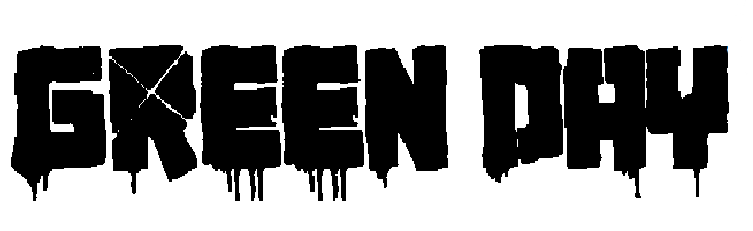
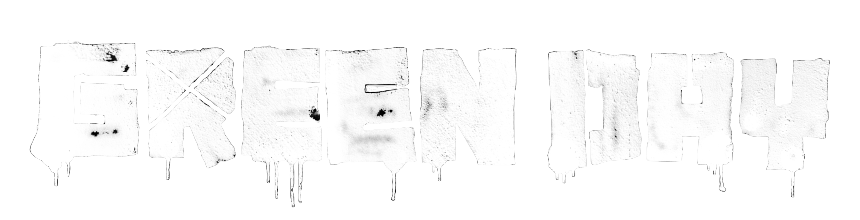
Whatever version I'm on
Working out CSS stuff for the layout and opacity of certain things.

diff --git a/green_day_discography/studio.html b/green_day_discography/studio.html
@@ -19,39 +19,47 @@
         <main>
             <h1>Studio Albums</h1>
             <p>Listed below are all the Studio Albums produced by Green Day.</p>
-            <img src="images/1039_smoothed_out_slappy_hours.jpg">
-            <h2>39/Smooth</h2>
+            <img class="left" src="images/1039_smoothed_out_slappy_hours.jpg">
+            <h2 class="title1">39/Smooth</h2>
             <p>Green Day’s debut album released on April 13th 1990 and sold around 75,000 copies by 1994. The album has 10 tracks and has a total runtime of 31 minutes and 12 seconds. This album is one of 2 albums produced by Green Day under the label Lookout Records.</p>
-            <img src="images/kerplunk!.jpg">
-            <h2>Kerplunk!</h2>
-            <p>Green Day’s second album was released on December 17th 1991. It sold 10,000 copies on the day of its release, and as of January 2017 has sold over 4 million copies. Tre Cool made his debut as Green Day’s drummer on this album after former drummer John Kiffmeyer left the band. The album has 12 tracks and has a total runtime of 33 minutes and 56 seconds.This was the last album released under the label Lookout Records.</p>
-            <img src="images/dookie.jpg">
-            <h2>Dookie</h2>
+            <img class="right" src="images/kerplunk!.jpg">
+            <h2 class="title">Kerplunk!</h2>
+            <p>Green Day’s 2nd album was released on December 17th 1991. It sold 10,000 copies on the day of its release, and as of January 2017 has sold over 4 million copies. Tre Cool made his debut as Green Day’s drummer on this album after former drummer John Kiffmeyer left the band. The album has 12 tracks and has a total runtime of 33 minutes and 56 seconds.This was the last album released under the label Lookout Records.</p>
+            <img class="left" src="images/dookie.jpg">
+            <h2 class="title1">Dookie</h2>
             <p>Released on February 1st 1994, “Dookie” was a smash success, selling out the pre-produced 9,000 copies on the day of its release, and has sold over 20 million copies worldwide, making it one of the best selling albums in history. Dookie made Green Day a staple name in the world of music and was the first album released by Green Day under the label Reprise Records. The first single released on the album was “Longview”, later followed by “Basket Case”, “Welcome To Paradise”, and “When I Come Around”. The album has 14 tracks and has a total runtime of 39 minutes and 35 seconds.</p>
-            <img src="images/insomniac.jpg">
-            <h2>Insomniac</h2>
-            <p>Green Day’s fourth album was released on October 10th 1995 and sold 171,000 copies in its first week. The album's first single was “Geek Stink Breath” followed by “Stuck With Me”, which was focused on the backlash that Green Day’s original fans had to them signing on with a major label, and “Brain Stew / Jaded”. The album has 14 tracks and has a total runtime of 32 minutes and 49 seconds.</p>
-            <img src="images/nimrod.jpg">
-            <h2>nimrod</h2>
+            <img class="right" src="images/insomniac.jpg">
+            <h2 class="title">Insomniac</h2>
+            <p>Green Day’s 4th album was released on October 10th 1995 and sold 171,000 copies in its first week. The album's first single was “Geek Stink Breath” followed by “Stuck With Me”, which was focused on the backlash that Green Day’s original fans had to them signing on with a major label, and “Brain Stew / Jaded”. The album has 14 tracks and has a total runtime of 32 minutes and 49 seconds.</p>
+            <img class="left" src="images/nimrod.jpg">
+            <h2 class="title1">nimrod</h2>
             <p>Released on October 14th 1997, Green Day’s 5th album produced 4 singles, starting with “Hitchin’ a Ride” 2 weeks before the albums release, “Good Riddance (Time of Your Life)”, which has become the staple ending song of all their concerts, “Redundant” in 1998, and “Nice Guys Finish Last” in 1999. The first week of its release saw 81,000 copies released, and in 2000 was certified double platinum by the RIAA for selling over 2 million copies. The album has 18 tracks and has a total runtime of 49 minutes and 1 second.</p>
-            <img src="images/warning.jpg">
-            <h2>WARNING:</h2>
-            <img src="images/americanidiot.jpg">
-            <h2>American Idiot</h2>
-            <img src="images/21st_century_breakdown.jpg">
-            <h2>21st Century Breakdown</h2>
-            <img src="images/uno!.jpg">
-            <h2>Uno!</h2>
-            <img src="images/dos!.jpg">
-            <h2>Dos!</h2>
-            <img src="images/tre!.jpg">
-            <h2>Tre!</h2>
-            <img src="images/revolution_radio.jpg">
-            <h2>Revolution Radio</h2>
-            <img src="images/father_of_all.jpg">
-            <h2>Father of All Motherfuckers</h2>
-            <img src="images/saviors.jpg">
-            <h2>Saviours</h2>
+            <img class="right" src="images/warning.jpg">
+            <h2 class="title">WARNING:</h2>
+            <p>Green Day’s 6th album released on October 3rd 2000 to mixed reviews. Despite selling 156,000 copies in its first week and peaking at number 4 on the Billboard 200, it was the lowest commercial slump in Green Day’s career. As of 2025, it has sold 3.5 million copies worldwide. The album produced 3 singles: “Minority”, “Warning”, both released in 2000, and “Waiting” in 2001. The album has 12 tracks and has a total runtime of 41 minutes and 14 seconds.</p>
+            <img class="left" src="images/americanidiot.jpg">
+            <h2 class="title1">American Idiot</h2>
+            <p>American Idiot was released on September 21st 2004 and received largely positive reviews. The album sold 267,000 copies in its first week and as of August 2024, has sold over 23 million copies worldwide. In 2005, the album won a Grammy Award for Best Rock Album, and was nominated in 6 other categories, including Album of the Year. The album produced 5 singles: “American Idiot”, “Boulevard of Broken Dreams” which won a Grammy Award for Record of the Year in 2006, “Holiday”, “Wake Me Up When September Ends”, and “Jesus of Suburbia”. The album has 13 tracks and has a total runtime of 57 minutes and 12 seconds.</p>
+            <img class="right" src="images/21st_century_breakdown.jpg">
+            <h2 class="title">21st Century Breakdown</h2>
+            <p>Released on May 15th 2009, 21st Century Breakdown debuted at number 1 on the Billboard 200 and sold 215,000 copies in its first week, and over 4 million worldwide as of 2010. The album produced 5 singles: “Know Your Enemy”, “21 Guns”, “East Jesus Nowhere”, “21st Century Breakdown”, and “Last of the American Girls”. The album has 18 tracks and has a total runtime of 69 minutes and 17 seconds, making it Green Day’s longest studio album to date.</p>
+            <img class="left" src="images/uno!.jpg">
+            <h2 class="title1">¡UNO!</h2>
+            <img class="right" src="images/dos!.jpg">
+            <h2 class="title">¡DOS!</h2>
+            <img class="left" src="images/tre!.jpg">
+            <h2 class="title1">¡TRE!</h2>
+            <img class="right" src="images/revolution_radio.jpg">
+            <h2 class="title">Revolution Radio</h2>
+            <img class="left" src="images/father_of_all.jpg">
+            <h2 class="title1">Father of All Motherfuckers</h2>
+            <img class="right" src="images/saviors.jpg">
+            <h2 class="title">Saviours</h2>
         </main>
+        <footer>
+            <h3>Green Day Discography</h3>
+            <p1 class="rule_below">Green Day | Ph: (505) 503-4455 | Email: yourmom@gmail.com</p1>
+            <p><small>&copy; Green Daze Music 2025 | Website by Levi Jay Horsnell</small></p>
+        </footer>
     </body>
 </html>

diff --git a/green_day_discography/style.css b/green_day_discography/style.css
@@ -1,10 +1,7 @@
 header img{
-    float: left;
-    margin-top: -25px;
-}
+    margin-bottom: -20px;
+    margin-top: -17px;
 
-header {
-   margin-top: 10px;
 }
 
 h1 {
@@ -13,4 +10,91 @@ h1 {
 
 main {
     font-size: larger;
+    font-family: 'Lucida Sans', 'Lucida Sans Regular', 'Lucida Grande', 'Lucida Sans Unicode', Geneva, Verdana, sans-serif;
+    background-color: rgb(184, 0, 0);
+    padding-left: 200px;
+    padding-right: 200px;
+    padding-bottom: 50px;
 }
+
+.left {
+    width: 250px;
+    float: left;
+    padding-right: 10px;
+}
+
+.right {
+    width: 250px;
+    float: right;
+}
+
+.title1 {
+    float: left;
+    padding-top: 10px;
+}
+
+.title {
+    float: right;
+}
+
+p {
+    color: aliceblue;
+}
+
+h2 {
+    color: aliceblue;
+}
+
+footer {
+    background-color: rgb(17, 17, 17);
+    color: aliceblue;
+    padding: 15px;
+    text-align: center;
+}
+
+header {
+    background-image: url("images/header.png");
+    background-color: black;
+}
+
+.background-image {
+    opacity: 0.5;
+}
+
+nav {
+    background-color: rgb(17, 17, 17);
+    padding-top: 10px;
+    padding-bottom: 10px;
+    font-weight: bold;
+    font-family: 'Lucida Sans', 'Lucida Sans Regular', 'Lucida Grande', 'Lucida Sans Unicode', Geneva, Verdana, sans-serif;
+    color: aliceblue;
+}
+
+nav a:visited {
+    color: aliceblue;
+}
+
+nav a:hover {
+    background-color: rgb(36, 36, 36);
+    color: rgb(255, 255, 255);
+}
+
+.rule_below {
+    border-bottom: aliceblue 1px solid;
+    padding-bottom: 8px;
+}
+
+body {
+    background-color: rgb(184, 0, 0);
+}
+
+nav a {
+text-decoration: none;
+width: 120px;
+padding: 10px;
+color: aliceblue;
+font-weight: bold;
+background-color: rgb(17, 17, 17);
+display: inline;
+}
+

diff --git a/green_day_discography/index.html b/green_day_discography/index.html
@@ -17,7 +17,7 @@
             </nav>
         </header>
         <main>
-            <img src="images/collage.png">
+
         </main>
     </body>
 </html>
